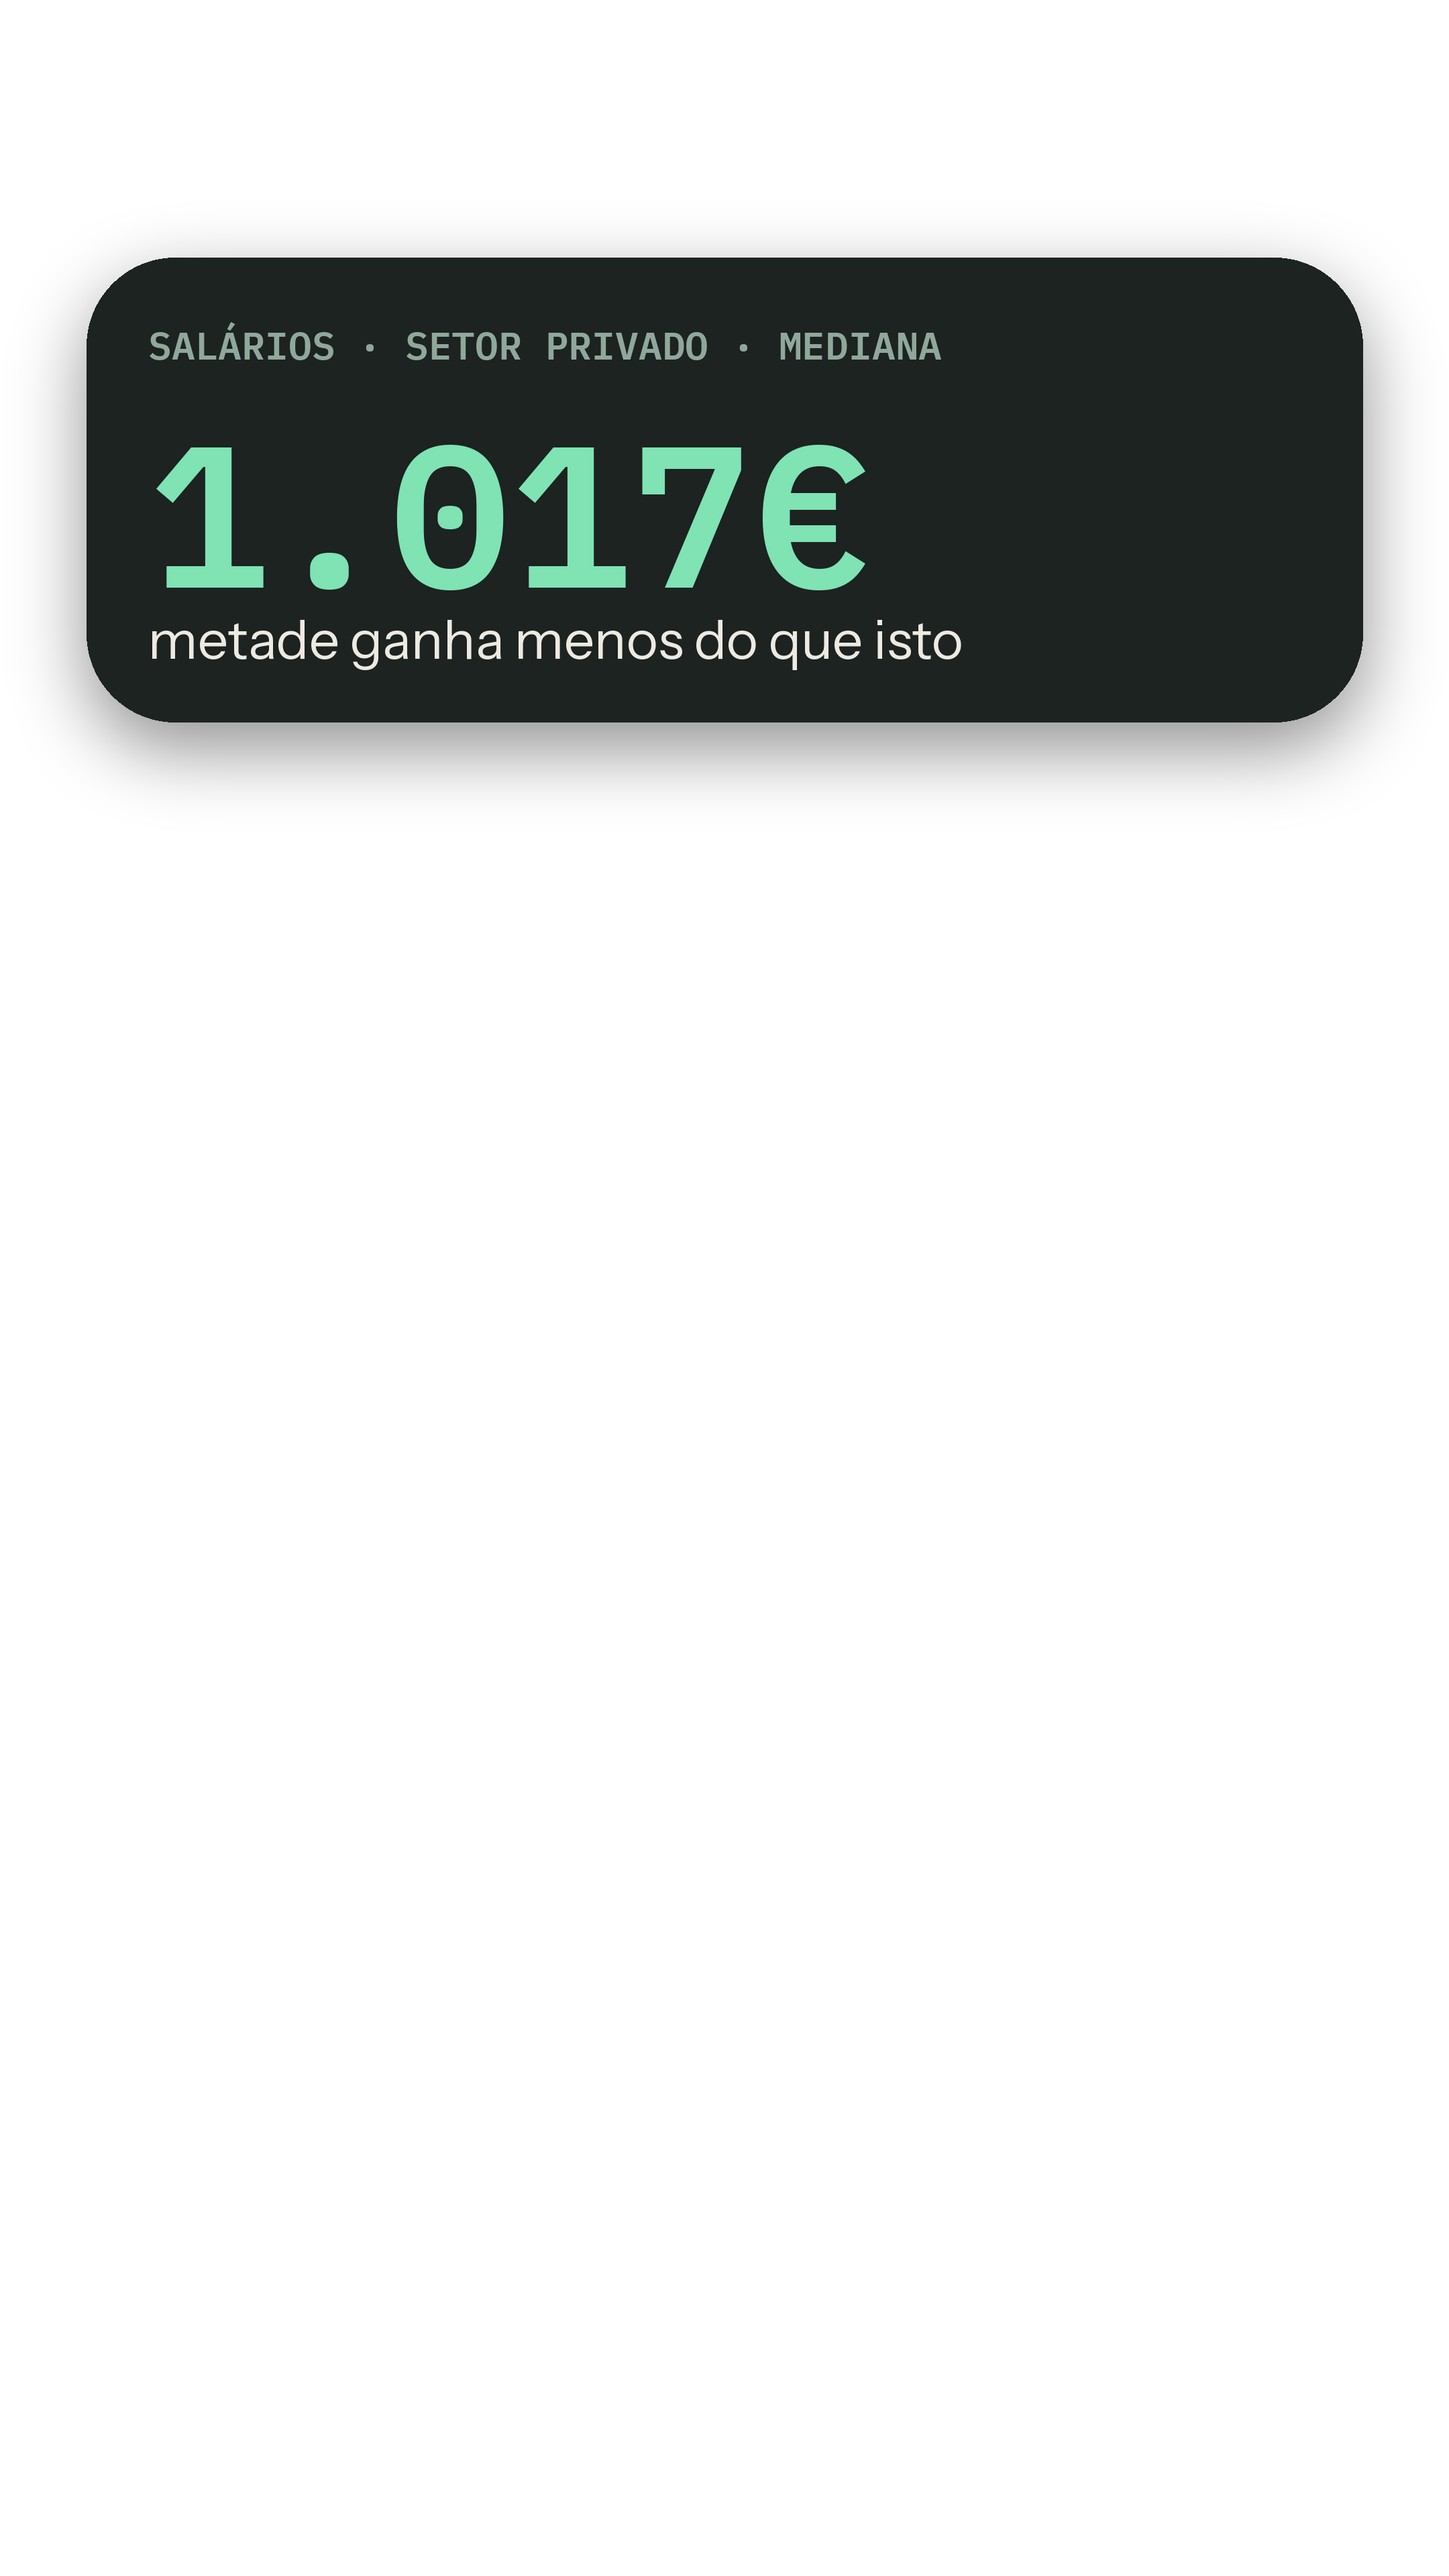
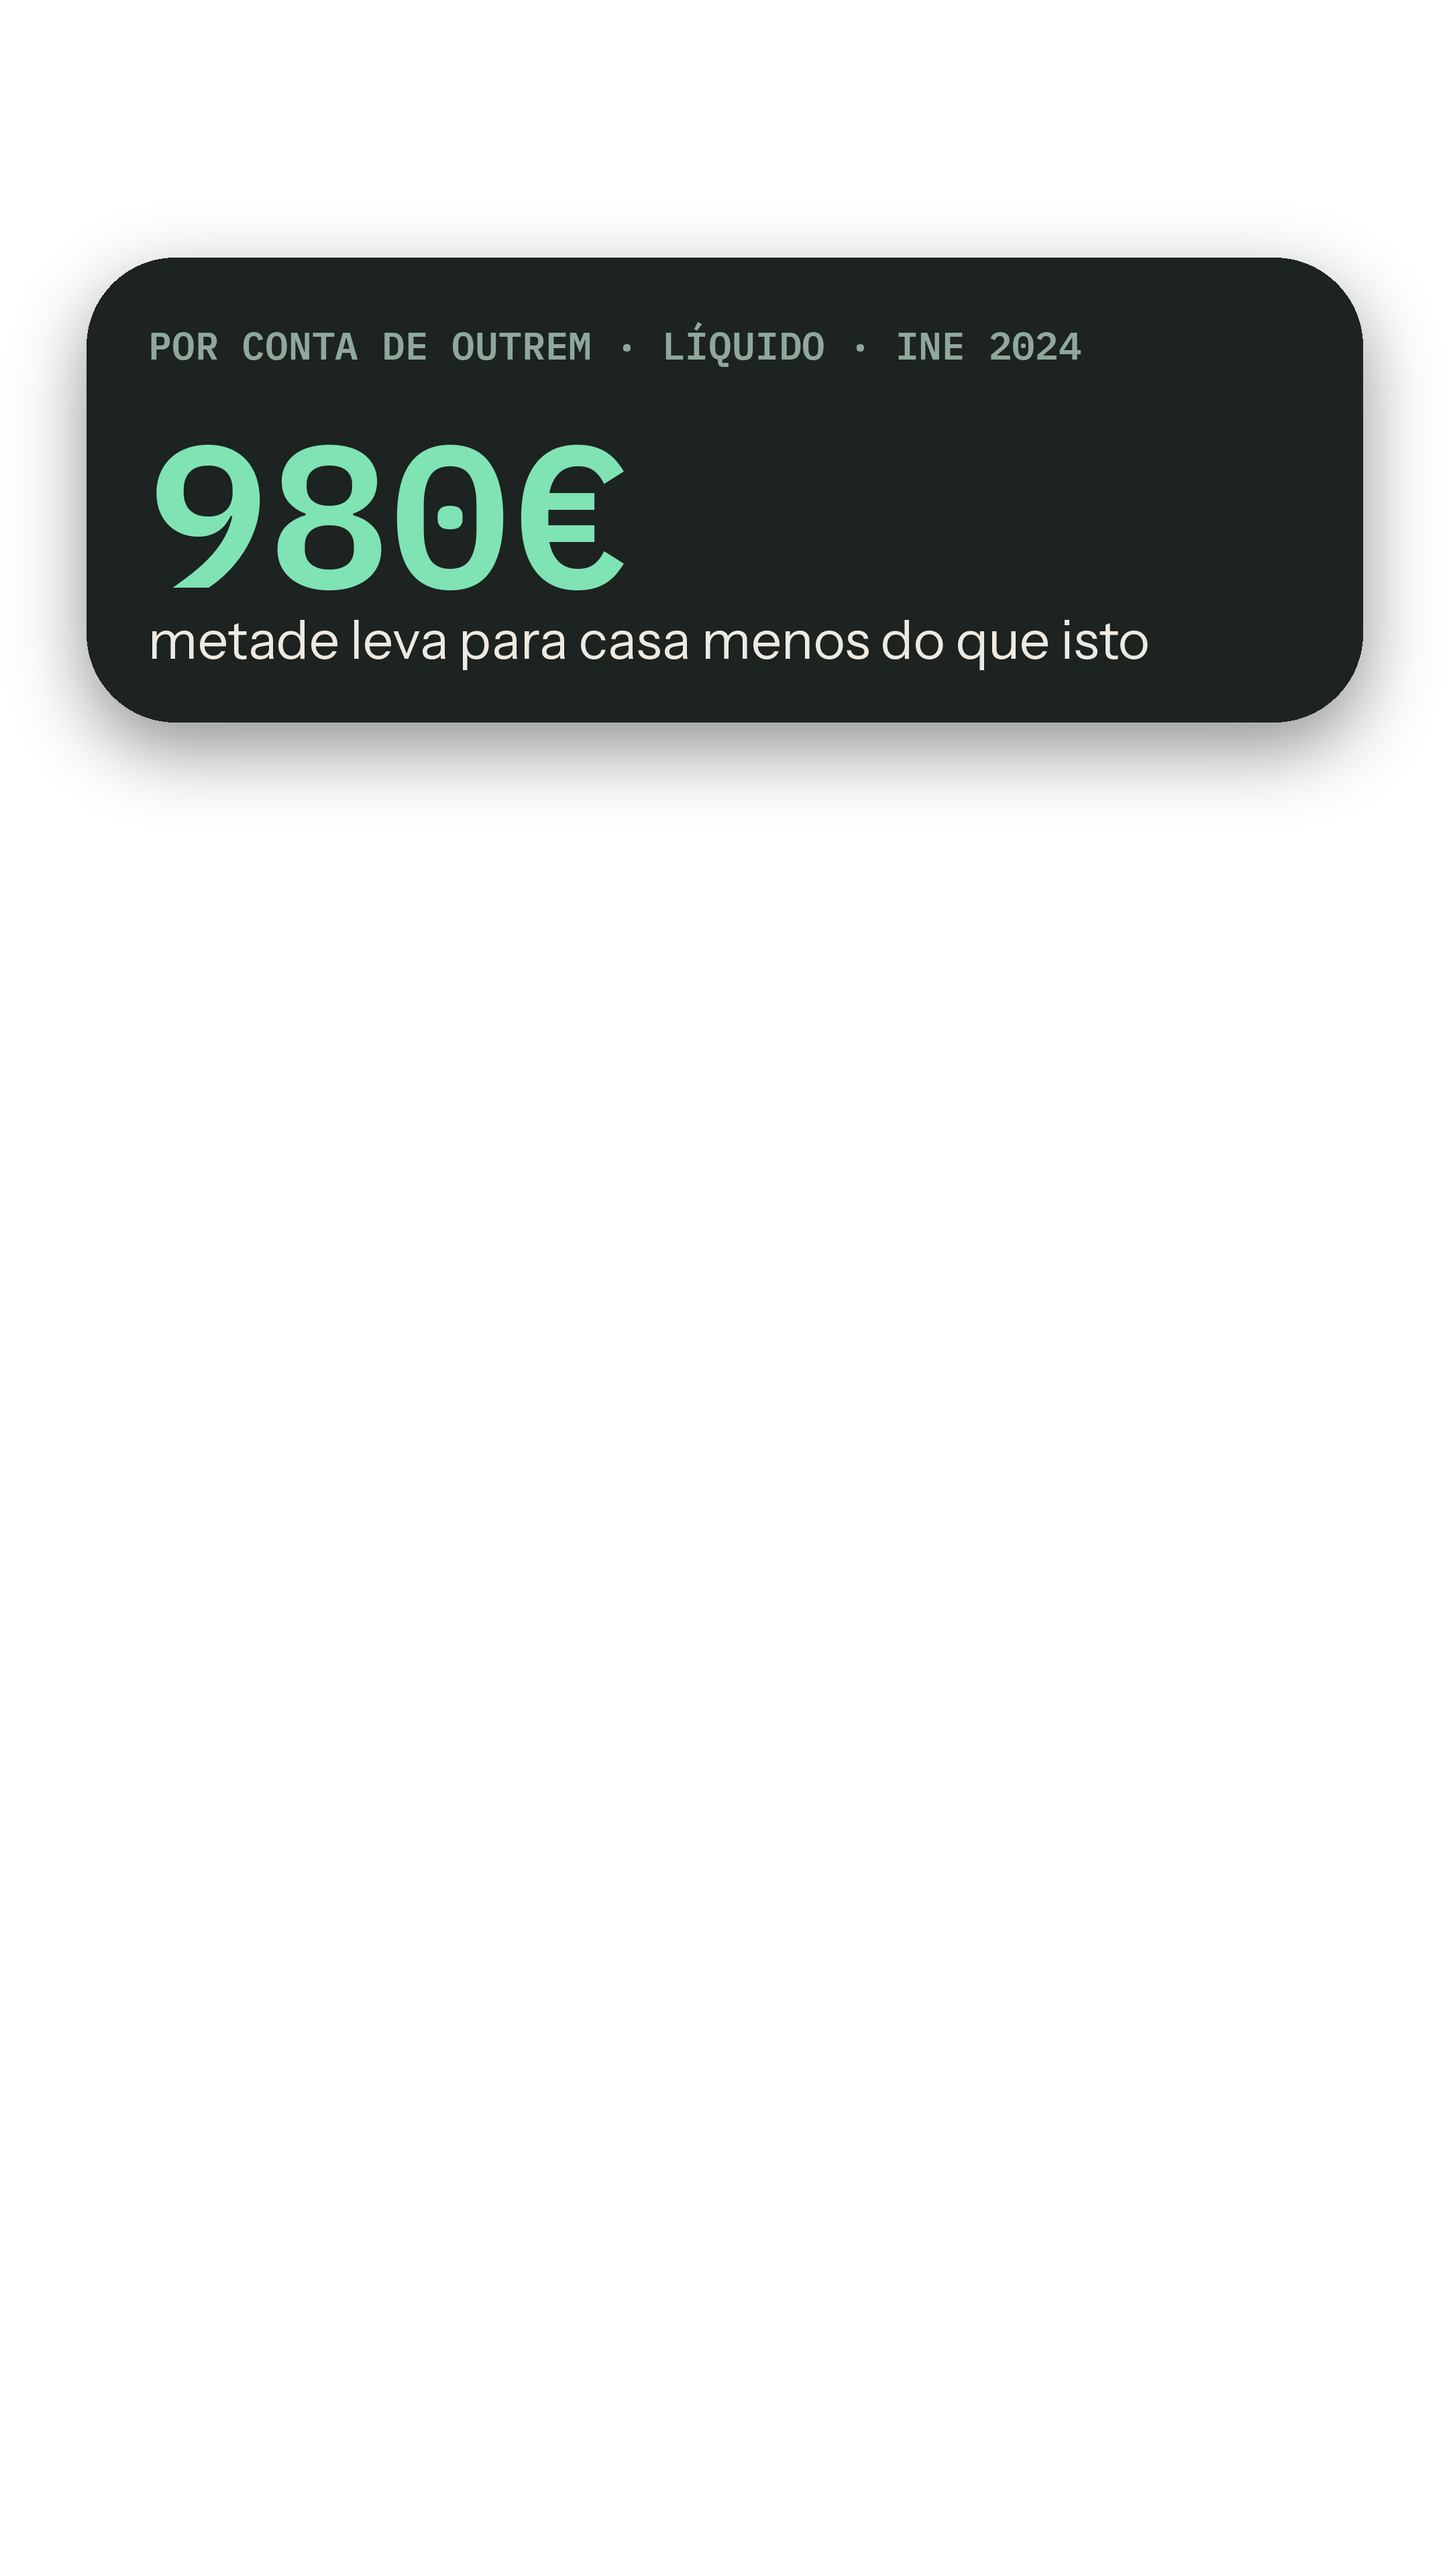
Add files via upload

Changed region(s): [[0.0931, 0.125, 0.6514, 0.2812], [0.6824, 0.125, 0.7444, 0.1562]]

diff --git a/producao/video-66/storyboard.html b/producao/video-66/storyboard.html
@@ -32,7 +32,7 @@ h2.sec{font-family:'Space Grotesk',sans-serif;font-size:18px;border-bottom:2px s
 a{color:var(--mint)}
 </style></head><body><div class="wrap">
 <header><div class="eyebrow">Storyboard de produção · identidade B3 Terminal Humano · timeline 4K</div>
-<h1>Vídeo #31 — 202 mil milhões a derreter <span style="color:var(--dim);font-size:.6em">· ~52s · 123 palavras</span></h1>
+<h1>Vídeo #31 — 202 mil milhões a derreter <span style="color:var(--dim);font-size:.6em">· ~61s · 140 palavras</span></h1>
 <div class="consts"><b><b>PUB #07</b> · 📅 Publicação sugerida: ter 18/ago · 19h00.</b> &nbsp;<b>Camadas CapCut:</b> V1 filmagem · V2 overlays PNG (100%, centrados) · V3 etiqueta de fonte (canto inf.-esq.) · V4 legendas (auto, estilo da amostra). <b>Regras:</b> cortes secos · 1 elemento de dado de cada vez · nada sobre a cara · números reconfirmados na fonte no dia (⚠ da nota de rigor).</div>
 </header>
 <div class="bloco"><div class="bhead"><h2>BLOCO 1</h2><span class="t">0-7s</span></div>
@@ -46,7 +46,7 @@ a{color:var(--mint)}
 <div class="bloco"><div class="bhead"><h2>BLOCO 2</h2><span class="t">7-14s</span></div>
 <div class="phone"><div class="sil"></div><img class="ov" src="overlays/v66-2-mente.png" alt=""></div>
 <div class="spec">
-<div class="row"><span class="k">🎙 Fala</span><span class="fala">"«Mas a média não é bem mais alta?» É — mil cento e quarenta e dois, em líquido. E mesmo essa… mente."</span></div>
+<div class="row"><span class="k">🎙 Fala</span><span class="fala">"«Mas a média não é bem mais alta?» É — mil cento e quarenta e dois nesse ano, em líquido. E mesmo essa… mente."</span></div>
 <div class="row"><span class="k">🎬 Câmara</span><span>A objeção pelo espectador; pausa antes do «mente».</span></div>
 <div class="row"><span class="k">📺 Overlay</span><span><code>v66-2-mente.png</code></span></div>
 <div class="row"><span class="k">🏷 Etiqueta</span><span>fora (sem dado no ecrã)</span></div>
@@ -54,7 +54,7 @@ a{color:var(--mint)}
 <div class="bloco"><div class="bhead"><h2>BLOCO 3</h2><span class="t">14-24s</span></div>
 <div class="phone"><div class="sil"></div><img class="ov" src="overlays/v66-7-eixo.png" alt=""></div>
 <div class="spec">
-<div class="row"><span class="k">🎙 Fala</span><span class="fala">"INE, tudo na mesma medida: a média, puxada para cima pelos salários altos. A mediana — a linha que divide os trabalhadores ao meio — 980. E nos jovens? Metade ganhava o mínimo. Ou menos."</span></div>
+<div class="row"><span class="k">🎙 Fala</span><span class="fala">"A média, puxada para cima pelos salários altos. A mediana — a linha que divide os trabalhadores ao meio — 980. E nos jovens? Metade ganhava o mínimo. Ou menos."</span></div>
 <div class="row"><span class="k">🎬 Câmara</span><span>Apontar a marca menta; «nos jovens» com meio tom de pausa.</span></div>
 <div class="row"><span class="k">📺 Overlay</span><span><code>v66-7-eixo.png</code></span></div>
 <div class="row"><span class="k">🏷 Etiqueta</span><span>fora (sem dado no ecrã)</span></div>
@@ -67,18 +67,18 @@ a{color:var(--mint)}
 <div class="row"><span class="k">📺 Overlay</span><span><code>v66-10-pessoas.png</code></span></div>
 <div class="row"><span class="k">🏷 Etiqueta</span><span>fora (sem dado no ecrã)</span></div>
 </div></div>
-<div class="bloco"><div class="bhead"><h2>BLOCO 5</h2><span class="t">36-44s</span></div>
+<div class="bloco"><div class="bhead"><h2>BLOCO 5</h2><span class="t">36-51s</span></div>
 <div class="phone"><div class="sil"></div><img class="ov" src="overlays/v66-11-atraso.png" alt=""></div>
 <div class="spec">
-<div class="row"><span class="k">🎙 Fala</span><span class="fala">"E sim — estes números são de 2024: até os salários, o país mede com atraso. Subiram desde então. O fosso… ficou."</span></div>
-<div class="row"><span class="k">🎬 Câmara</span><span>A farpa dita calma.</span></div>
-<div class="row"><span class="k">📺 Overlay</span><span><code>v66-11-atraso.png</code></span></div>
+<div class="row"><span class="k">🎙 Fala</span><span class="fala">"Estes números são de 2024 — o país mede salários com atraso. A média já foi recontada: vai nos mil e trezentos. A mediana? Ninguém a contou ainda. Nas minhas contas: à volta de mil e cinquenta."</span></div>
+<div class="row"><span class="k">🎬 Câmara</span><span>A farpa + a estimativa assinada; «nas MINHAS contas» com ênfase no minhas. Overlay troca a meio do take: atraso → aposta.</span></div>
+<div class="row"><span class="k">📺 Overlay</span><span><code>v66-11-atraso.png</code> → <code>v66-12-aposta.png</code> (troca aos ~44s)</span></div>
 <div class="row"><span class="k">🏷 Etiqueta</span><span>fora (sem dado no ecrã)</span></div>
 </div></div>
-<div class="bloco"><div class="bhead"><h2>BLOCO 6</h2><span class="t">44-52s</span></div>
+<div class="bloco"><div class="bhead"><h2>BLOCO 6</h2><span class="t">51-61s</span></div>
 <div class="phone"><div class="sil"></div><img class="ov" src="overlays/v66-6-cta.png" alt=""></div>
 <div class="spec">
-<div class="row"><span class="k">🎙 Fala</span><span class="fala">"Quando vires «salário médio» numa notícia, pergunta sempre: e a mediana? Acima ou abaixo da linha? Não precisas de dizer o número."</span></div>
+<div class="row"><span class="k">🎙 Fala</span><span class="fala">"Quando o INE a publicar, volto aqui — e vemos se acertei. Até lá: acima ou abaixo da linha do meio? Não precisas de dizer o número."</span></div>
 <div class="row"><span class="k">🎬 Câmara</span><span>Corte seco.</span></div>
 <div class="row"><span class="k">📺 Overlay</span><span><code>v66-6-cta.png</code></span></div>
 <div class="row"><span class="k">🏷 Etiqueta</span><span>fora (sem dado no ecrã)</span></div>
@@ -94,6 +94,6 @@ Acima ou abaixo da linha do meio? Não precisas de dizer o número 👇
 (Acima ou abaixo da linha do meio? (não precisas de dizer o número 👇)
 (Acima ou abaixo da linha do meio? (não precisas de dizer o número 👇)
 (Acima ou abaixo da linha do meio? (não precisas de dizer o número 👇)
-(rigor: mediana 980€ e média 1.142€ LÍQUIDOS — INE, Inquérito ao Emprego, 2024, trabalhadores por conta de outrem; mês típico, subsídios de férias/Natal à parte. Jovens <25: mediana 820€ = o mínimo de então. Fosso homens/mulheres passou os 200€ pela 1.ª vez (1.249 vs 1.043) — e o grupo mais mal pago do país são as trabalhadoras não qualificadas: 633€ (vs 846€ dos homens na mesma categoria). E o famoso «salário médio de 1.611€» das notícias? É BRUTO, de 2026 e de outra série — não dá para subtrair: entre eles há 2 anos de aumentos, universos diferentes e só depois os descontos (~25% num salário médio). Céticos do bruto: Quadros de Pessoal out/23 — mediana 1.017 vs média 1.368. O fosso média-mediana aparece em qualquer moeda, ano e fonte. Se sair retrato mais recente, atualizo aqui)</div>
+(rigor: mediana 980€ e média 1.142€ LÍQUIDOS — INE, Inquérito ao Emprego, 2024, trabalhadores por conta de outrem; mês típico, subsídios de férias/Natal à parte. Jovens <25: mediana 820€ = o mínimo de então. Fosso homens/mulheres passou os 200€ pela 1.ª vez (1.249 vs 1.043) — e o grupo mais mal pago do país são as trabalhadoras não qualificadas: 633€ (vs 846€ dos homens na mesma categoria). E o famoso «salário médio de 1.611€» das notícias? É BRUTO, de 2026 e de outra série — não dá para subtrair: entre eles há 2 anos de aumentos, universos diferentes e só depois os descontos (~25% num salário médio). Céticos do bruto: Quadros de Pessoal out/23 — mediana 1.017 vs média 1.368. O fosso média-mediana aparece em qualquer moeda, ano e fonte. Tendência: a média líquida já vai nos 1.298€ (3T2025, INE) e sobe 7-9%/ano. A mediana de 2025 NÃO foi publicada — a estimativa de ~1.050€ é MINHA, não do INE (conta: 980€ × crescimento observado no mínimo, +6,1%, e na média, +8%). Quando o INE publicar o número oficial, volto aqui e digo se acertei)</div>
 <h2 class="sec">Fecho</h2><div class="pos"><b>Exportar</b> 2160p · 30fps → capa (matriz: 1.611€ / MAS METADE GANHA MENOS DE MIL / a média mente) → publicar → nota fixada → 60 min de comentários → dashboard → ⬇ performance.json</div>
 </div></body></html>
